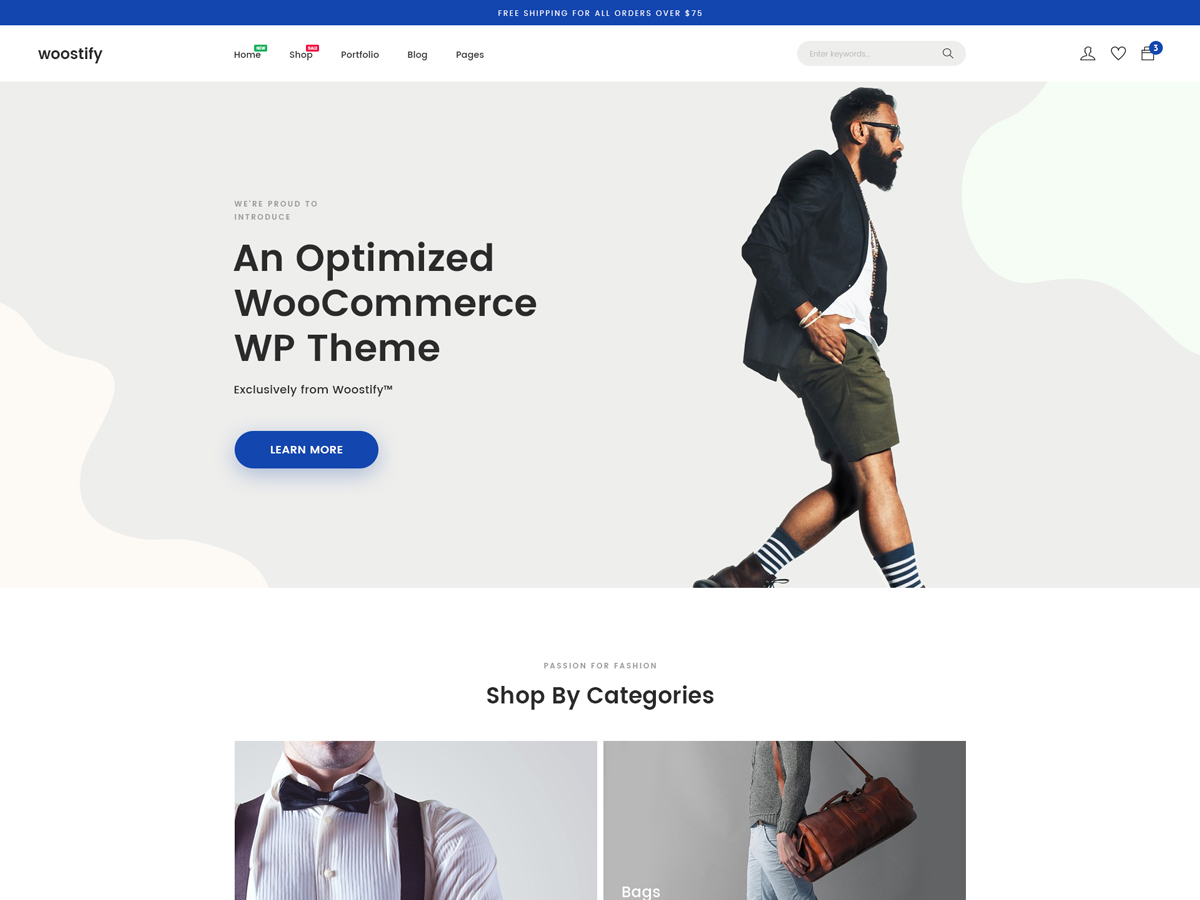
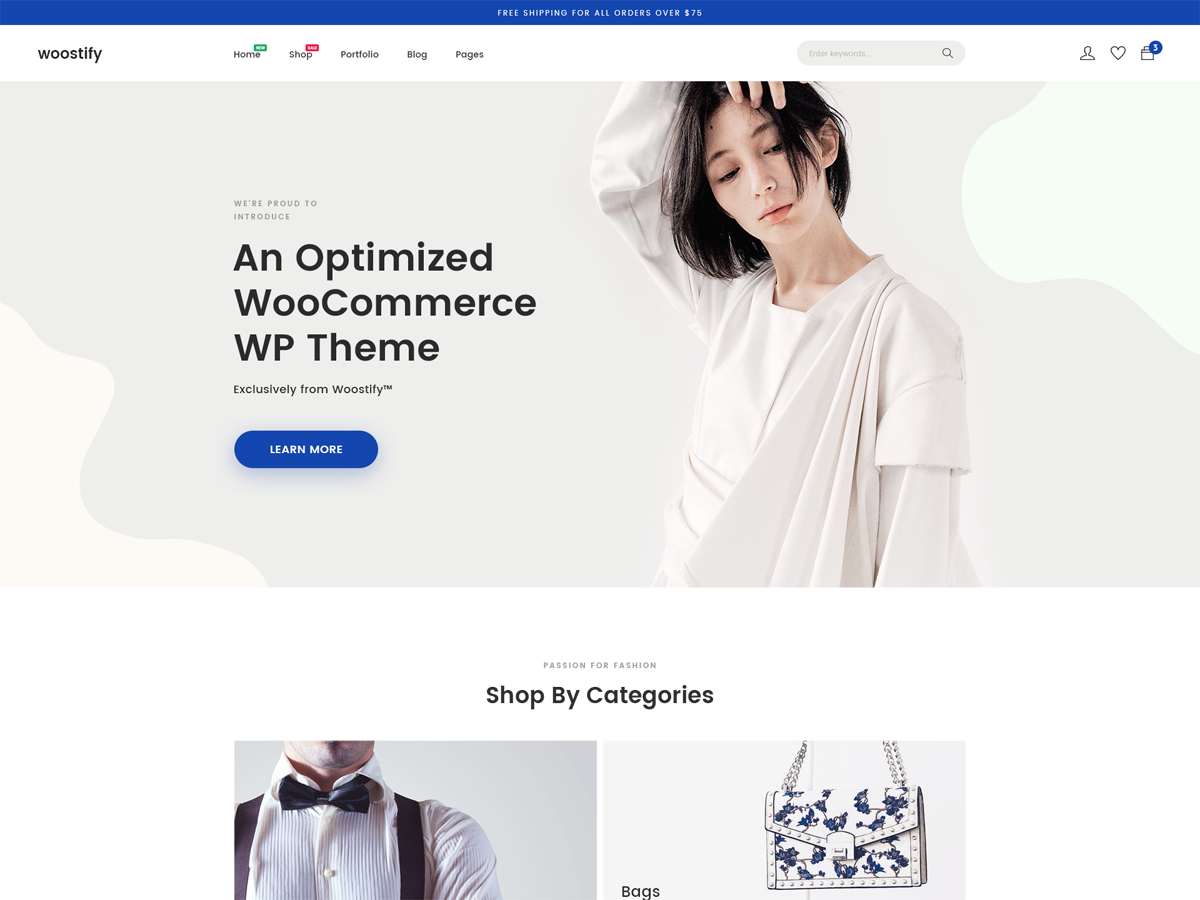
change screenshot image to pexels

diff --git a/style.css b/style.css
@@ -5,7 +5,7 @@ Theme URI:    https://woostify.com
 Author:       Woostify
 Author URI:   https://woostify.com/about
 Description:  Woostify is fast, lightweight, responsive and super flexible WooCommerce theme built with SEO, speed, and usability in mind. The theme works great with any of your favorite page builder likes Elementor, Beaver Builder, SiteOrigin, Thrive Architect, Divi, Visual Composer, etc. Therefore, you can build any type of websites like shop, business agencies, corporate, portfolio, education, university portal, consulting, church, restaurant, medical and so on. Woostify is compatible with all well-coded plugins, including major ones like WooCommerce, OrbitFox, Yoast, BuddyPress, bbPress, etc. Learn more about the theme and ready to import demo sites at https://woostify.com
-Version:      1.0.5
+Version:      1.0.7
 License:      GNU General Public License v2 or later
 License URI:  https://www.gnu.org/licenses/gpl-2.0.html
 Text Domain:  woostify
@@ -2238,7 +2238,7 @@ Note: Do not edit this file. If you wish to add your own CSS, go to Customizer >
 
 */
 /*
-	
+
 	1. Buttons
 
  */
@@ -2534,7 +2534,7 @@ a.pswp__share--download:hover {
 }
 
 /*
-	
+
 	4. Caption
 
  */
@@ -2632,8 +2632,8 @@ a.pswp__share--download:hover {
 }
 
 .pswp--css_animation .pswp__preloader__cut {
-  /* 
-			The idea of animating inner circle is based on Polymer ("material") loading indicator 
+  /*
+			The idea of animating inner circle is based on Polymer ("material") loading indicator
 			 by Keanu Lee https://blog.keanulee.com/2014/10/20/the-tale-of-three-spinners.html
 		*/
   position: relative;
@@ -2721,7 +2721,7 @@ a.pswp__share--download:hover {
 }
 
 /*
-	
+
 	6. Additional styles
 
  */

diff --git a/style.scss b/style.scss
@@ -4,7 +4,7 @@ Theme URI:    https://woostify.com
 Author:       Woostify
 Author URI:   https://woostify.com/about
 Description:  Woostify is fast, lightweight, responsive and super flexible WooCommerce theme built with SEO, speed, and usability in mind. The theme works great with any of your favorite page builder likes Elementor, Beaver Builder, SiteOrigin, Thrive Architect, Divi, Visual Composer, etc. Therefore, you can build any type of websites like shop, business agencies, corporate, portfolio, education, university portal, consulting, church, restaurant, medical and so on. Woostify is compatible with all well-coded plugins, including major ones like WooCommerce, OrbitFox, Yoast, BuddyPress, bbPress, etc. Learn more about the theme and ready to import demo sites at https://woostify.com
-Version:      1.0.5
+Version:      1.0.7
 License:      GNU General Public License v2 or later
 License URI:  https://www.gnu.org/licenses/gpl-2.0.html
 Text Domain:  woostify
